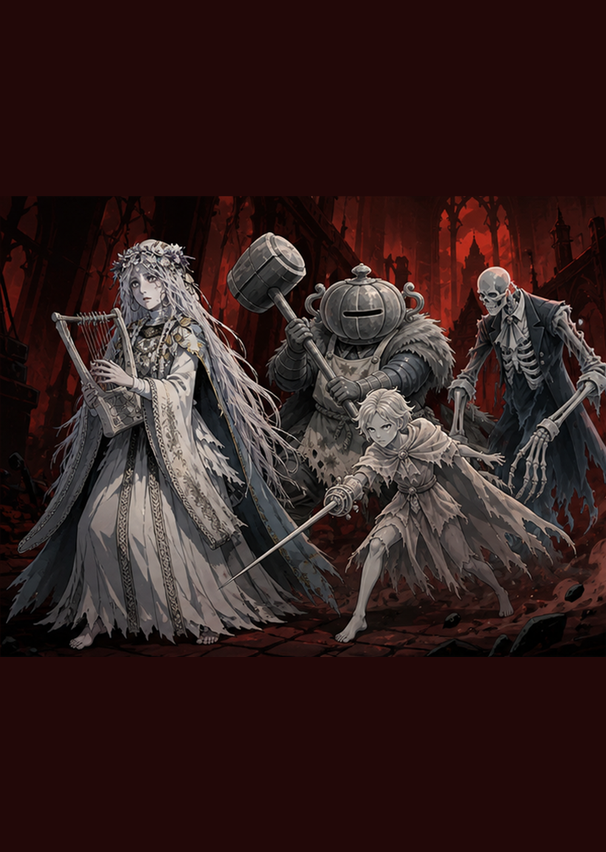
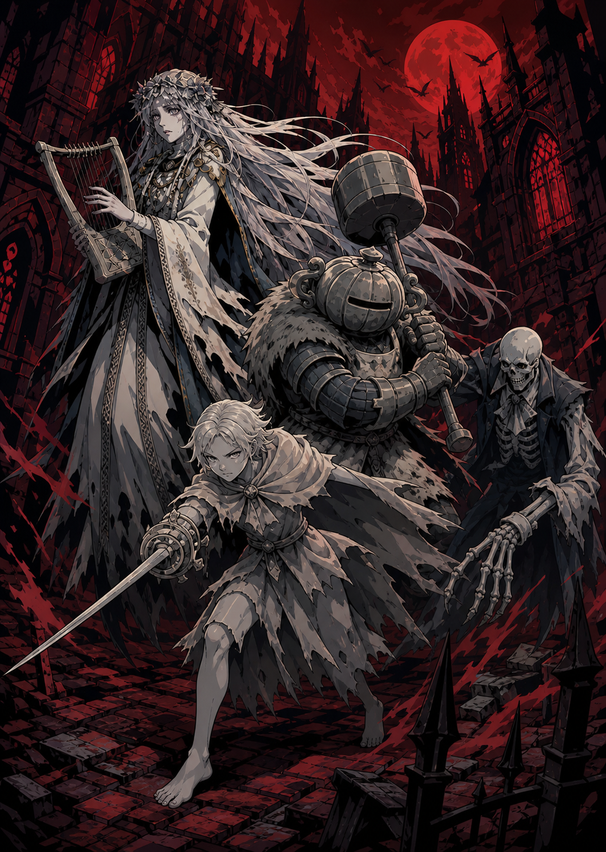
Release Night Must Stay 0.2.2

diff --git a/src/Core/Models/Cards/RevenantTextTableCards.cs b/src/Core/Models/Cards/RevenantTextTableCards.cs
@@ -118,9 +118,9 @@ public sealed class GiantSkeletonWrath : CardModel
         await DamageCmd.Attack(DynamicVars.Damage.BaseValue).FromCard(this).Targeting(cardPlay.Target).Execute(context);
         RevenantSummonManager manager = RevenantSummonManager.For(Owner);
         if (manager.CurrentFamilyId == RevenantFamilyId.Skeleton)
-            await RevenantTextTableHelpers.DamageAsFamily(this, context, 5m, true, 4);
+            await RevenantTextTableHelpers.DamageAsFamily(this, context, 4m, true, 3);
     }
-    protected override void OnUpgrade() => EnergyCost.UpgradeBy(-1);
+    protected override void OnUpgrade() => DynamicVars.Damage.UpgradeValueBy(4m);
 }
 
 public sealed class SkyRendingChord : CardModel
@@ -245,17 +245,28 @@ public sealed class ReanimateDead : CardModel
 
 public sealed class SoulReturn : CardModel
 {
-    protected override IEnumerable<DynamicVar> CanonicalVars => new DynamicVar[] { new BlockVar(4m, ValueProp.Move), new CardsVar(1) };
-    public override IEnumerable<CardKeyword> CanonicalKeywords => new[] { CardKeyword.Exhaust };
-    public override bool GainsBlock => true;
+    protected override IEnumerable<DynamicVar> CanonicalVars => new DynamicVar[]
+    {
+        new PowerVar<FreezePower>("Freeze", 3m),
+        new CardsVar(1),
+    };
+    public override IEnumerable<CardKeyword> CanonicalKeywords => new[] { CardKeyword.Ethereal };
+    protected override IEnumerable<IHoverTip> ExtraHoverTips =>
+        new[] { HoverTipFactory.FromPower<FreezePower>() };
     public override string PortraitPath => "res://revenant_assets/cards/soul_return.png";
-    public SoulReturn() : base(0, CardType.Skill, CardRarity.Common, TargetType.Self) { }
+    public SoulReturn() : base(1, CardType.Skill, CardRarity.Common, TargetType.AnyEnemy) { }
     protected override async Task OnPlay(PlayerChoiceContext context, CardPlay cardPlay)
     {
-        await CreatureCmd.GainBlock(Owner.Creature, DynamicVars.Block, cardPlay);
+        ArgumentNullException.ThrowIfNull(cardPlay.Target);
+        await PowerCmd.Apply<FreezePower>(
+            context,
+            cardPlay.Target,
+            DynamicVars["Freeze"].BaseValue,
+            Owner.Creature,
+            this);
         await RevenantCardHelpers.AddFromDiscard(this, context, DynamicVars.Cards.IntValue, false);
     }
-    protected override void OnUpgrade() => DynamicVars.Cards.UpgradeValueBy(1m);
+    protected override void OnUpgrade() => DynamicVars["Freeze"].UpgradeValueBy(1m);
 }
 
 public sealed class HeavyEcho : CardModel
@@ -313,7 +324,7 @@ public sealed class PreparationRitual : CardModel
         if (recovered.FirstOrDefault() is IRevenantChargeCard chargeCard)
             await chargeCard.CompleteCharge(context);
     }
-    protected override void OnUpgrade() { }
+    protected override void OnUpgrade() => AddKeyword(CardKeyword.Retain);
 }
 
 public sealed class WatchfulWaiting : CardModel, IRevenantChargeCard

diff --git a/src/Core/Models/Cards/RevenantAdvancedCards.cs b/src/Core/Models/Cards/RevenantAdvancedCards.cs
@@ -168,8 +168,12 @@ public sealed class EmergencyRestore : CardModel
     {
         if (cardPlay.Target == Owner.Creature)
             await CreatureCmd.GainBlock(Owner.Creature, DynamicVars.Block, cardPlay);
-        else if (cardPlay.Target == Owner.Osty)
-            await RevenantCardHelpers.HealFamily(this, DynamicVars["Heal"].BaseValue);
+        else if (cardPlay.Target is { IsAlive: true } summon)
+        {
+            RevenantSummonManager manager = RevenantSummonManager.For(Owner);
+            if (manager.IsFamilyCreature(summon) || manager.IsNecroCreature(summon))
+                await CreatureCmd.Heal(summon, DynamicVars["Heal"].BaseValue);
+        }
     }
     protected override void OnUpgrade() { DynamicVars.Block.UpgradeValueBy(2m); DynamicVars["Heal"].UpgradeValueBy(2m); }
 }
@@ -186,15 +190,20 @@ public sealed class PreciseLightningStrike : CardModel
     protected override async Task OnPlay(PlayerChoiceContext context, CardPlay cardPlay)
     {
         ArgumentNullException.ThrowIfNull(cardPlay.Target);
-        decimal damage = _recoveredThisTurn
-            ? DynamicVars.Damage.BaseValue * 2m
-            : DynamicVars.Damage.BaseValue;
-        await DamageCmd.Attack(damage).FromCard(this).Targeting(cardPlay.Target).Execute(context);
+        await DamageCmd.Attack(DynamicVars.Damage.BaseValue)
+            .FromCard(this)
+            .Targeting(cardPlay.Target)
+            .Execute(context);
     }
     public override Task AfterCardChangedPiles(CardModel card, PileType oldPileType, AbstractModel source)
     {
-        if (card == this && RevenantCardHelpers.WasMovedFromDiscardToHand(card, oldPileType))
+        if (card == this
+            && !_recoveredThisTurn
+            && RevenantCardHelpers.WasMovedFromDiscardToHand(card, oldPileType))
+        {
             _recoveredThisTurn = true;
+            DynamicVars.Damage.BaseValue *= 2m;
+        }
         return Task.CompletedTask;
     }
     public override Task AfterSideTurnEnd(
@@ -202,11 +211,15 @@ public sealed class PreciseLightningStrike : CardModel
         CombatSide side,
         IEnumerable<Creature> creatures)
     {
-        if (side == Owner.Creature.Side)
+        if (side == Owner.Creature.Side && _recoveredThisTurn)
+        {
+            DynamicVars.Damage.BaseValue /= 2m;
             _recoveredThisTurn = false;
+        }
         return Task.CompletedTask;
     }
-    protected override void OnUpgrade() => DynamicVars.Damage.UpgradeValueBy(3m);
+    protected override void OnUpgrade() =>
+        DynamicVars.Damage.UpgradeValueBy(_recoveredThisTurn ? 6m : 3m);
 }
 
 public sealed class ThreefoldHalo : CardModel

diff --git a/src/Core/Patches/IroneyeHybridTargetCardPatch.cs b/src/Core/Patches/IroneyeHybridTargetCardPatch.cs
@@ -13,6 +13,7 @@ using MegaCrit.Sts2.Core.Nodes.GodotExtensions;
 using MegaCrit.Sts2.Core.Nodes.Multiplayer;
 using MegaCrit.Sts2.Core.Nodes.Rooms;
 using NightMustStay.Core.Models.Cards;
+using NightMustStay.Core.Models.Revenant;
 
 namespace NightMustStay.Core.Patches;
 
@@ -47,7 +48,12 @@ internal static class IroneyeHybridTargetState
         if (!creature.IsAlive)
             return false;
         if (card is EmergencyRestore)
-            return creature == card.Owner.Creature || creature == card.Owner.Osty;
+        {
+            RevenantSummonManager manager = RevenantSummonManager.For(card.Owner);
+            return creature == card.Owner.Creature
+                || manager.IsFamilyCreature(creature)
+                || manager.IsNecroCreature(creature);
+        }
         if (card is WatchfulWaiting)
             return creature.Side != card.Owner.Creature.Side || creature == card.Owner.Creature;
         if (card is IRevenantChargeCard { IsChargeComplete: true })
@@ -167,8 +173,7 @@ internal static class AdvanceAndRetreatControllerTargetingPatch
         CardModel card)
     {
         IEnumerable<Creature> targets = card is EmergencyRestore
-            ? new[] { card.Owner.Creature, card.Owner.Osty }
-                .Where(creature => creature is { IsAlive: true })
+            ? GetEmergencyRestoreTargets(card)
             : card.CombatState.GetOpponentsOf(card.Owner.Creature)
                 .Where(creature => creature.IsHittable)
                 .Prepend(card.Owner.Creature)
@@ -211,5 +216,15 @@ internal static class AdvanceAndRetreatControllerTargetingPatch
         }
 
         TryPlayCardMethod.Invoke(play, new object[] { target });
+    }
+
+    private static IEnumerable<Creature> GetEmergencyRestoreTargets(CardModel card)
+    {
+        RevenantSummonManager manager = RevenantSummonManager.For(card.Owner);
+        yield return card.Owner.Creature;
+        if (manager.CurrentFamilyCreature is { IsAlive: true } family)
+            yield return family;
+        foreach (RevenantNecro necro in manager.GetLivingNecros())
+            yield return necro.Creature;
     }
 }

diff --git a/src/Core/Models/Cards/RevenantExpansionCards.cs b/src/Core/Models/Cards/RevenantExpansionCards.cs
@@ -141,7 +141,7 @@ public sealed class Resurgence : CardModel
     protected override IEnumerable<DynamicVar> CanonicalVars => new DynamicVar[] { new EnergyVar(2) };
     public override string PortraitPath => "res://revenant_assets/cards/resurgence.png";
 
-    public Resurgence() : base(3, CardType.Skill, CardRarity.Uncommon, TargetType.Self) { }
+    public Resurgence() : base(4, CardType.Skill, CardRarity.Uncommon, TargetType.Self) { }
 
     protected override Task OnPlay(PlayerChoiceContext context, CardPlay cardPlay) =>
         PlayerCmd.GainEnergy(DynamicVars.Energy.IntValue, Owner);
@@ -153,7 +153,7 @@ public sealed class Resurgence : CardModel
         return Task.CompletedTask;
     }
 
-    protected override void OnUpgrade() => DynamicVars.Energy.UpgradeValueBy(1m);
+    protected override void OnUpgrade() => EnergyCost.UpgradeBy(-1);
 }
 
 public sealed class Soulbound : CardModel
@@ -166,15 +166,16 @@ public sealed class Soulbound : CardModel
 
     protected override async Task OnPlay(PlayerChoiceContext context, CardPlay cardPlay)
     {
-        CardModel selected = (await CardSelectCmd.FromHandForDiscard(
+        List<CardModel> selected = (await CardSelectCmd.FromHandForDiscard(
             context,
             Owner,
             new CardSelectorPrefs(CardSelectorPrefs.DiscardSelectionPrompt, 1),
             null,
-            this)).FirstOrDefault();
-        if (selected != null)
-            await CardCmd.Discard(context, selected);
-        await RevenantCardHelpers.AddFromDiscard(this, context, 1, false);
+            this)).ToList();
+        foreach (CardModel card in selected)
+            await CardCmd.Discard(context, card);
+        if (selected.Count > 0)
+            await RevenantCardHelpers.AddFromDiscard(this, context, selected.Count, false);
     }
 
     protected override void OnUpgrade() => AddKeyword(CardKeyword.Retain);

diff --git a/src/Core/Models/Cards/RevenantFamilySynergyCards.cs b/src/Core/Models/Cards/RevenantFamilySynergyCards.cs
@@ -63,13 +63,13 @@ public sealed class TravelingSatchel : CardModel
 {
     public override IEnumerable<CardKeyword> CanonicalKeywords =>
         IsUpgraded ? new[] { CardKeyword.Retain } : Array.Empty<CardKeyword>();
-    protected override IEnumerable<DynamicVar> CanonicalVars => new DynamicVar[] { new CardsVar(1) };
+    protected override IEnumerable<DynamicVar> CanonicalVars => new DynamicVar[] { new CardsVar(2) };
     public override string PortraitPath => "res://revenant_assets/cards/traveling_satchel.png";
 
     public TravelingSatchel() : base(1, CardType.Skill, CardRarity.Uncommon, TargetType.Self) { }
 
     protected override Task OnPlay(PlayerChoiceContext context, CardPlay cardPlay) =>
-        RevenantCardHelpers.AddFromDiscard(this, context, DynamicVars.Cards.IntValue, false);
+        CardPileCmd.Draw(context, DynamicVars.Cards.IntValue, Owner);
 
     protected override void OnUpgrade() => AddKeyword(CardKeyword.Retain);
 }

diff --git a/src/Core/Patches/GuardianCardHoverTipPatch.cs b/src/Core/Patches/GuardianCardHoverTipPatch.cs
@@ -36,6 +36,8 @@ namespace NightMustStay.Core.Patches
                 "[gold]盾戳[/gold]", "[gold]Shield Poke[/gold]");
             AddIfMentioned(tips, text, HoverTipFactory.FromPower<PhantomImbalancePower>(),
                 "[gold]失衡[/gold]", "[gold]Imbalance[/gold]");
+            AddIfMentioned(tips, text, HoverTipFactory.Static(StaticHoverTip.Stun),
+                "[gold]失衡[/gold]", "[gold]Imbalance[/gold]");
             AddIfMentioned(tips, text, GuardianCardHoverTips.RevenantCharge,
                 "[gold]蓄力[/gold]", "[gold]Charge[/gold]");
             AddIfMentioned(tips, text, GuardianCardHoverTips.RevenantRecover,

diff --git a/src/Core/Models/Cards/StandFirm.cs b/src/Core/Models/Cards/StandFirm.cs
@@ -25,7 +25,7 @@ namespace NightMustStay.Core.Models.Cards
         };
 
         public StandFirm()
-            : base(0, CardType.Skill, CardRarity.Uncommon, TargetType.Self)
+            : base(0, CardType.Skill, CardRarity.Common, TargetType.Self)
         {
         }
 

diff --git a/src/Core/Models/Cards/BreathingRoom.cs b/src/Core/Models/Cards/BreathingRoom.cs
@@ -20,7 +20,7 @@ namespace NightMustStay.Core.Models.Cards
         };
 
         public BreathingRoom()
-            : base(3, CardRarity.Common)
+            : base(3, CardRarity.Uncommon)
         {
         }
 

diff --git a/design/Slay_the_Spire_2_卡图生成强制规范.md b/design/Slay_the_Spire_2_卡图生成强制规范.md
@@ -48,7 +48,19 @@
   - `regent/void_form.png`
   - `regent/tyranny.png`
 
-上述正式卡图的统一尺寸为 **1000×760 px**，横宽比约为 **1.316:1**。
+上述普通、稀有及常规卡池正式卡图的统一尺寸为 **1000×760 px**，横宽比约为 **1.316:1**。
+
+### 2.1 先古卡图尺寸例外
+
+先古牌不是横向卡图。对原游戏全部 `CardRarity.Ancient` 卡牌及其资源逐项核对后，正式先古卡图统一使用：
+
+- **606×852 px**；
+- 纵向比例约为 **0.711:1**；
+- 画面必须从上到下完整填满，不得把横图居中后用纯色、模糊背景或延展色带补齐；
+- 不得先生成 1000×760 横图再粗暴裁成竖图，必须从构图阶段就按 606×852 纵向画布设计；
+- 先古牌仍遵守本规范的图形化平涂、硬边赛璐璐、大黑色形状、有限色盘和单一视觉事件要求。
+
+核对样本包括 `apotheosis`、`apparition`、`biased_cognition`、`break`、`corruption`、`forbidden_grimoire`、`meteor_shower`、`protector`、`quadcast`、`the_sealed_throne`、`wraith_form` 等，资源尺寸均为 606×852。
 
 ## 3. 造型语言
 
@@ -192,6 +204,14 @@ photorealism, painterly brushwork, cinematic concept-art rendering,
 realistic metal reflections, dense environmental detail, tiny decorative details.
 ```
 
+先古牌不得使用上述横图尺寸行，必须替换为：
+
+```text
+Asset: 606x852 portrait Ancient card illustration, artwork only.
+Composition: native portrait composition filling the entire canvas from top to bottom;
+do not adapt, letterbox, pad, or crop a landscape illustration.
+```
+
 ## 9. “踏地架势”正确方向示例
 
 上一版错误点：完整角色、真实铠甲、雨夜战场、金属划痕、尘土粒子和电影光照共同抢占注意力，缩略后只剩“写实鹰人骑士”，没有《Slay the Spire 2》的图形语言。
@@ -216,7 +236,7 @@ realistic metal reflections, dense environmental detail, tiny decorative details
 
 每张预览提交审批前必须通过以下检查：
 
-- [ ] 尺寸或最终裁切比例为 1000×760。
+- [ ] 常规卡图尺寸或最终裁切比例为 1000×760；先古卡图必须为原生纵向 606×852。
 - [ ] 缩小到约 250×190 时，仍能一眼说出视觉事件。
 - [ ] 主体由大色块和硬边分面组成，而非厚涂纹理。
 - [ ] 主体轮廓明确，并有黑色形状或高饱和描边参与分离。

diff --git a/docs/WORKSHOP_DESCRIPTION.md b/docs/WORKSHOP_DESCRIPTION.md
@@ -8,6 +8,8 @@
 [h1]黑夜长留[/h1]
 “黑夜必须为我而留。”
 
+[b]兼容性提示：本 Mod 仅支持《杀戮尖塔 2》正式版分支，请勿在 Beta、Preview 或其他测试分支中启用。[/b]
+
 《黑夜长留》是《杀戮尖塔 2》的大型角色扩展模组，以《艾尔登法环：黑夜君临》中的角色形象与战斗特色为设计蓝本，将渡夜者们转化为拥有独立牌组与专属机制的尖塔角色。
 
 [h2]当前内容[/h2]
@@ -43,7 +45,7 @@
 
 [h2]模组信息[/h2]
 [list]
-[*][b]当前版本：[/b]0.2.1
+[*][b]当前版本：[/b]0.2.2
 [*][b]支持语言：[/b]简体中文、英语
 [*][b]模组类型：[/b]独立角色
 [*][b]前置模组：[/b]无
@@ -69,6 +71,8 @@ Title: `Night Must Stay`
 ```bbcode
 [h1]NIGHT MUST STAY[/h1]
 “The night must remain for me.”
+
+[b]Compatibility: this mod supports only the official release branch of Slay the Spire 2. Do not enable it on Beta, Preview, or other test branches.[/b]
 
 Night Must Stay is a large character expansion mod for Slay the Spire 2. Inspired by the characters and combat styles of ELDEN RING NIGHTREIGN, it reimagines the Nightfarers as Spire characters with independent card pools and unique mechanics.
 
@@ -105,7 +109,7 @@ If you encounter a problem or have feedback about character design or balance, y
 
 [h2]Mod Information[/h2]
 [list]
-[*][b]Current Version:[/b] 0.2.1
+[*][b]Current Version:[/b] 0.2.2
 [*][b]Supported Languages:[/b] Simplified Chinese and English
 [*][b]Mod Type:[/b] Standalone playable characters
 [*][b]Required Mods:[/b] None

diff --git a/docs/WORKSHOP_RELEASE_CHECKLIST.md b/docs/WORKSHOP_RELEASE_CHECKLIST.md
@@ -21,8 +21,10 @@ NightMustStay.pdb   # 可选，便于用户提交可定位的崩溃日志
 
 - 每次更新前修改 `manifest.json` 的语义化版本号。
 - 确认是否添加 `min_game_version`；本地当前用于开发的游戏版本是 `0.107.1`。
+- 当前公开版本只支持 Production/正式版分支；创意工坊中英文说明必须在开头明确标注，不能让玩家在 Beta/Preview 分支误用。
 - 如果要同时支持 Production 与 Public Beta，必须分别验证，并在创意工坊项目中正确声明支持的游戏版本范围。
 - Mod ID 从旧的 `sts2mod` 改为 `NightMustStay` 后，Steam 会把它视为不同的 Mod 身份。发布前需要测试旧存档能否加载；不要再同时安装旧 ID 与新 ID。
+- 开发机本地测试包使用独立 ID `NightMustStayBetaTest` 与显示后缀 `[Beta Test]`。它只用于区分本地测试和线上稳定版，禁止与 Workshop 版本同时启用。
 
 ## 3. 页面素材
 
